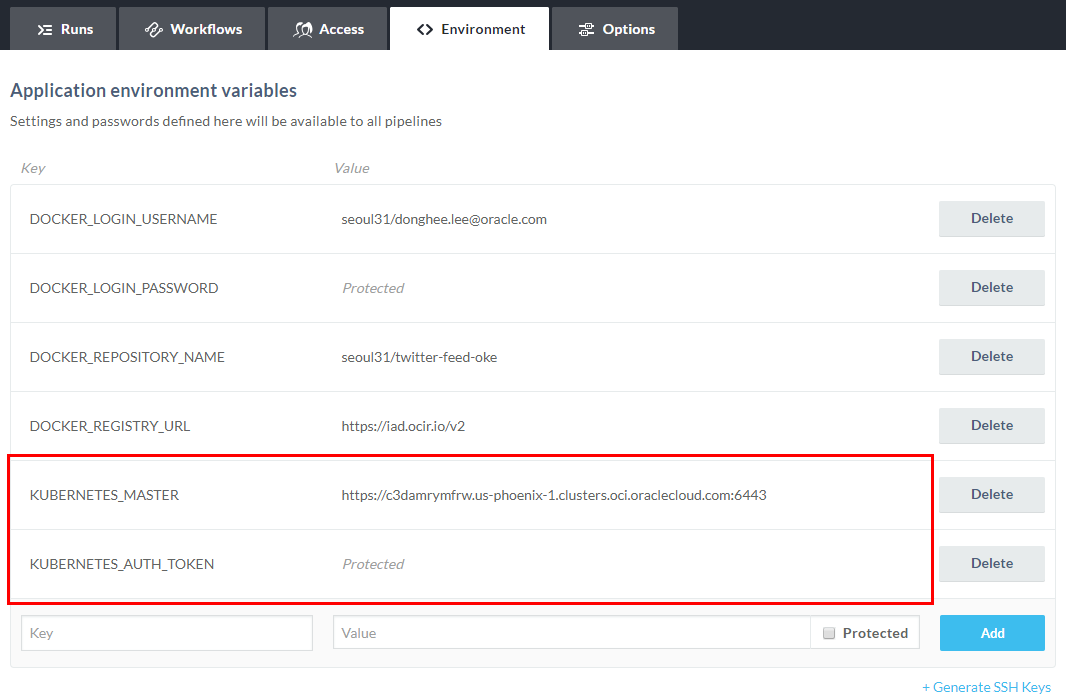
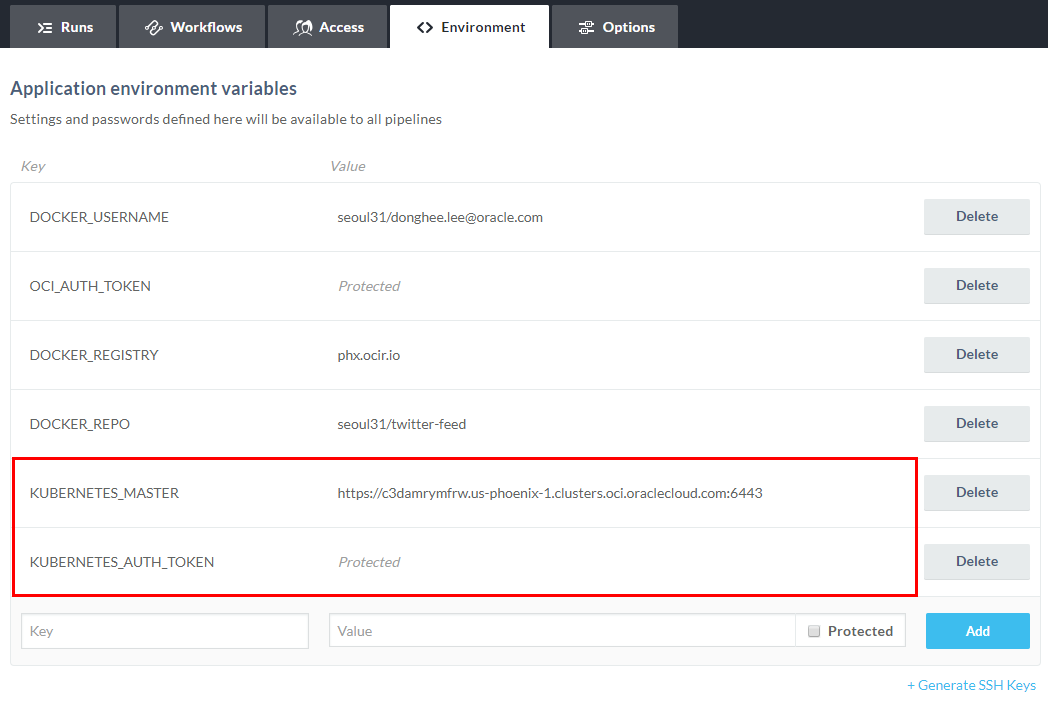
..

diff --git a/Lab400.md b/Lab400.md
@@ -219,7 +219,7 @@ kubectl로 배포하기 위해서는 배포용 yml 파일이 필요합니다. UI
   token: $KUBERNETES_AUTH_TOKEN
   ```
 
-- 또한 kubectl에서 Private Registry에서 이미지를 가져오기 위해 Registry 접속정보가 필요합니다.
+- 또한 kubectl에서 Private Registry에서 이미지를 가져오기 위해 Registry 접속정보가 필요합니다. 이부분은 앞서 이미 등록했습니다.
   ```
   docker-server: $DOCKER_REGISTRY 
   docker-username: $DOCKER_USERNAME
@@ -229,7 +229,7 @@ kubectl로 배포하기 위해서는 배포용 yml 파일이 필요합니다. UI
 1. Wercker로 이동하여 워크플로우에서 사용하는 환경변수를 맞는 접속정보를 설정해야 합니다. Wercker로 이동하여 애플리케이션의 Enviroment 탭으로 이동합니다.
   ![](images/400_wercker_environment_1.png) 
 
-2. server, token 정보는 앞서 생성한 kubeconfig 파일에서 각각 가져옵니다.
+2. server, token 정보는 앞서 생성한(또는 다운받은) kubeconfig 파일에서 각각 가져옵니다.
   ![](images/400_wercker_environment_2.png) 
 
 3. 환경변수를 Key, Value 형태로 순서대로 하나씩 등록합니다. AUTH_TOKEN은 보안을 위해 Value 입력시 **Protected**를 체크합니다.
@@ -270,7 +270,7 @@ Starting to serve on 127.0.0.1:8001
 
 ```
 
-2. 브라우저로 접속<br>
+2. 브라우저로 대시보드 접속<br>
 http://localhost:8001/api/v1/namespaces/kube-system/services/https:kubernetes-dashboard:/proxy/
 
 3. 앞서 생성한 kubeconfig 파일 선택후 접속
@@ -278,3 +278,13 @@ http://localhost:8001/api/v1/namespaces/kube-system/services/https:kubernetes-da
 
 4. kubenetes dashboard로 배포된 애플리케이션을 모니터링 할 수 있습니다.  
   ![](images/300_oke_dashboard_2.png)
+
+5. 왼쪽 Pods 메뉴에서 2개의 **twitter-feed** pod을 포함한 pod들은 볼 수 있습니다. 클릭해서 자세한 정보를 볼 수 있습니다.
+  ![](images/400_kubernetes_dashboard_1.png)
+
+6. Service 메뉴에서 **product-catalog-service**를 클릭해서 UI 애플리케이션 서비스의 자세한 정보를 볼 수 있습니다. **External endpoints**를 더블 클릭하면 지금 배포한 애플리케이션에 접근할 수 있습니다.
+  ![](images/400_kubernetes_dashboard_2.png)
+
+7. 두 가지 애플리케이션이 배포되어 서비스되는 Alpha 문구의 제품 카탈로그 웹사이트입니다.제품을 클릭하면 twitter-feed와 연결되어 서비스 되는 것을 확인 할 수 있습니다.
+  ![](images/400_kubernetes_dashboard_3.png)
+  ![](images/400_kubernetes_dashboard_4.png)  

diff --git a/Lab100.md b/Lab100.md
@@ -15,3 +15,7 @@
   
 3. 오른쪽 상단의 **Fork** 를 한번 더 클릭하고 자신의 GitHub으로 Fork 합니다.<br>
   ![](images/100_git_fork_2.png)  
+
+
+## 처음 화면으로 이동
+[readme](readme.md)
